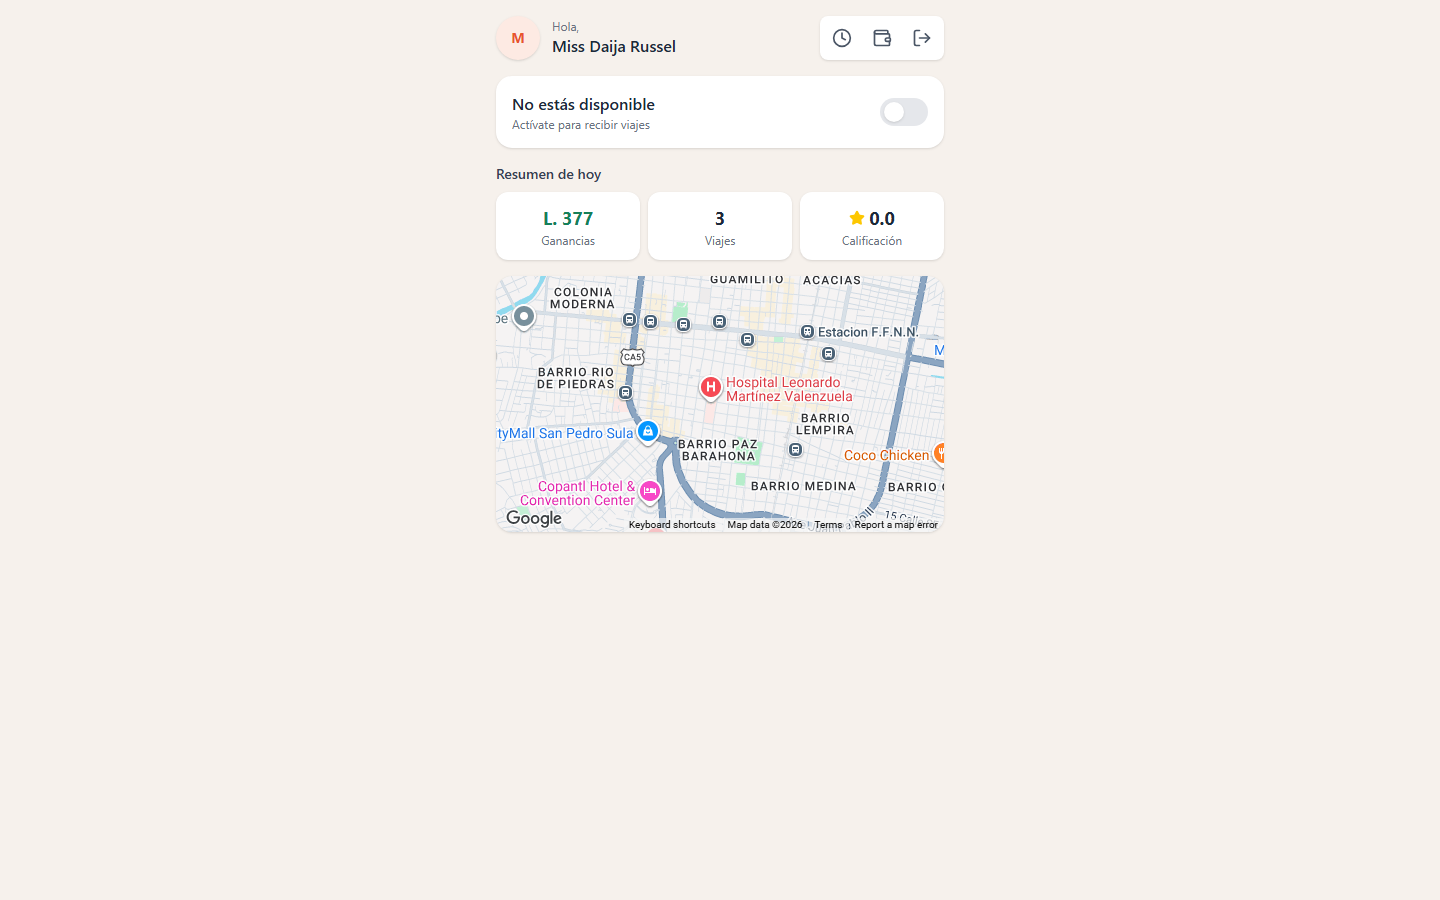
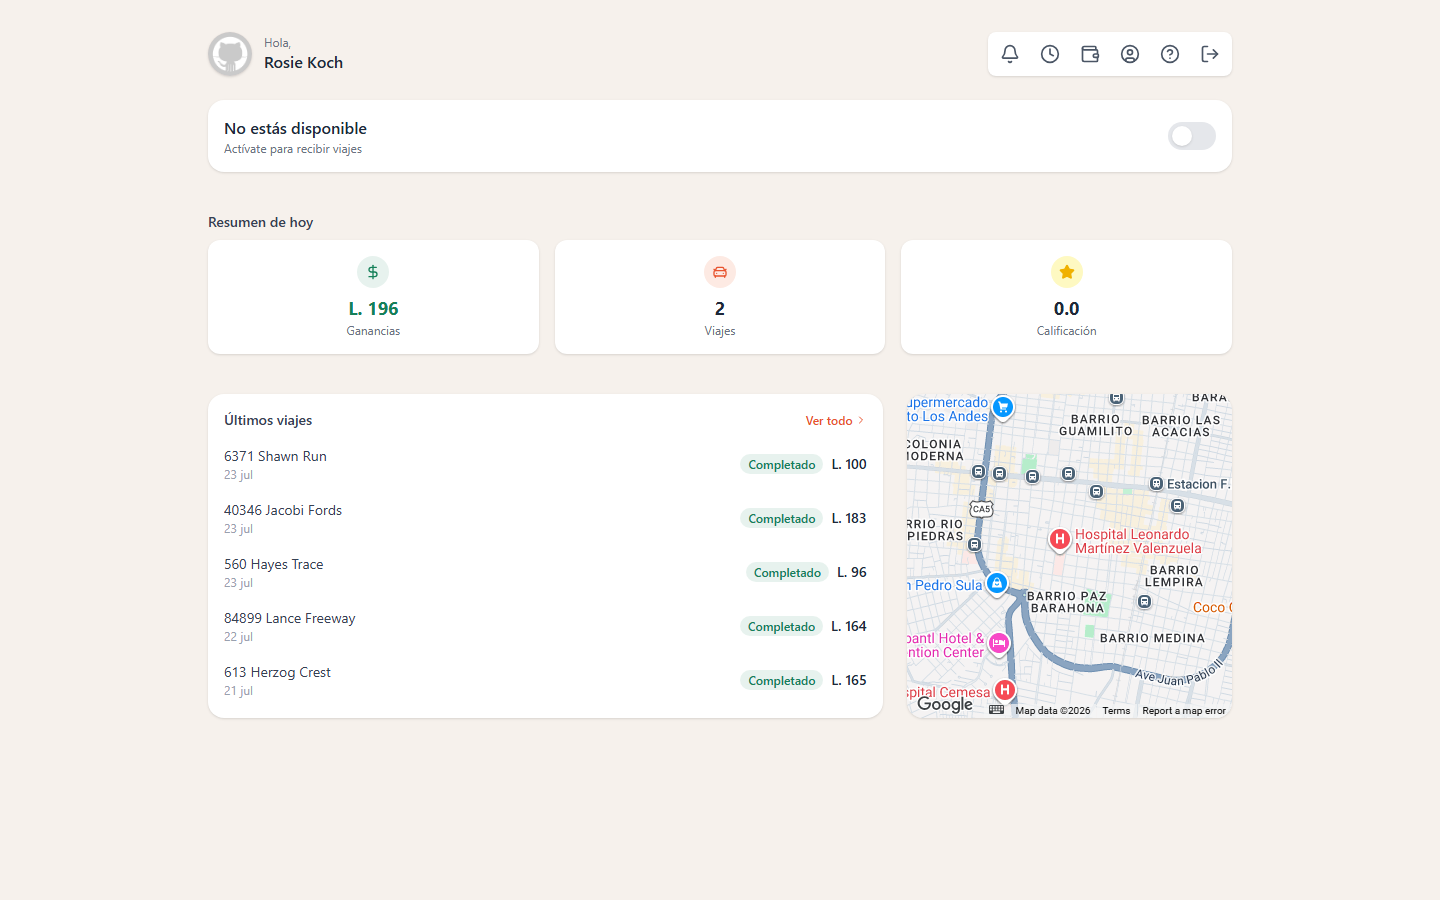
docs: update README with detailed functionalities and legal pages; replace screenshots

diff --git a/README.md b/README.md
@@ -8,11 +8,39 @@
 
 ## Qué es CatrachoGo
 
-**CatrachoGo** es el frontend web de una plataforma de ride-hailing (tipo Uber/InDriver) pensada para Honduras. Cubre los tres roles de la plataforma — pasajero, conductor y administrador — con autenticación por contraseña o Google, wallet con recargas por PayPal, seguimiento de viajes en tiempo real sobre Google Maps, y un panel de administración con dashboard, gestión de conductores, viajes, retiros y zonas tarifarias.
+**CatrachoGo** es el frontend web de una plataforma de ride-hailing (tipo Uber/InDriver) pensada para Honduras. Cubre los tres roles de la plataforma — pasajero, conductor y administrador — con autenticación por contraseña o Google, wallet con recargas por PayPal, seguimiento de viajes en tiempo real sobre Google Maps, y un panel de administración con dashboard, gestión de conductores, viajes, retiros, zonas tarifarias y reportes de incidencias.
+
+En pantallas de escritorio, las vistas de pasajero y conductor usan un layout de aplicación web real (panel de información junto al mapa, listas tipo tabla) en vez de una app móvil estirada; por debajo del breakpoint de escritorio el diseño mobile se mantiene sin cambios.
 
 Este repositorio consume la API de [`catrachogo-api`](https://github.com/xEdwardP/catrachogo-api) (NestJS + PostgreSQL/PostGIS) — no la modifica. Ambos proyectos corren en paralelo en desarrollo.
 
 Proyecto académico del equipo "Los Inges".
+
+## Funcionalidades
+
+**Pasajero**
+- Solicitar viaje con autocompletado de direcciones (Google Places), tarifa estimada antes de confirmar, y ruta trazada sobre el mapa.
+- Direcciones favoritas (casa, trabajo, otro) y destinos recientes, disponibles desde la pantalla de inicio.
+- Seguimiento del viaje en curso con la ubicación del conductor y datos de contacto una vez aceptado.
+- Terminar un viaje antes de llegar al destino, con tarifa recalculada de forma prorrateada.
+- Cancelar un viaje (con confirmación y motivo) tanto en espera de conductor como ya con conductor asignado.
+- Reportar un problema o a un conductor específico desde el historial o el viaje activo.
+- Wallet con recarga vía PayPal e historial de movimientos traducido.
+- Perfil editable (nombre, teléfono, foto) y sección de ayuda/soporte con FAQ.
+
+**Conductor**
+- Activarse/desactivarse para recibir viajes (bloqueado hasta que el administrador aprueba sus documentos).
+- Recibir y responder solicitudes entrantes con ventana de tiempo límite.
+- Marcar llegada al punto de recogida y cancelar por no-show del pasajero tras un periodo de gracia, con cargo aplicado al pasajero.
+- Wallet de solo ganancias/retiros (sin opción de recarga, exclusiva de pasajeros) y solicitud de retiro vía PayPal.
+- Mismo perfil, soporte y reporte de incidencias que el pasajero.
+
+**Administración**
+- Dashboard con KPIs de la plataforma (viajes activos, ingresos del día, conductores disponibles, retiros y conductores pendientes) y gráfico de viajes completados por día.
+- Gestión de conductores (aprobación/rechazo de documentos), viajes, retiros, zonas tarifarias y reportes de incidencias enviados por pasajeros.
+
+**Legal**
+- Páginas de Términos de uso, Política de privacidad y Licencias, enlazadas desde el footer y la sección de soporte.
 
 ## Stack técnico
 
@@ -33,7 +61,7 @@ Proyecto académico del equipo "Los Inges".
 |---|---|
 | ![Landing](screenshots/landing.png) | ![Login](screenshots/login.png) |
 
-| Pasajero — solicitar viaje | Conductor — panel principal |
+| Pasajero — solicitar viaje (escritorio) | Conductor — panel principal (escritorio) |
 |---|---|
 | ![Pasajero](screenshots/passenger-request.png) | ![Conductor](screenshots/driver-home.png) |
 
